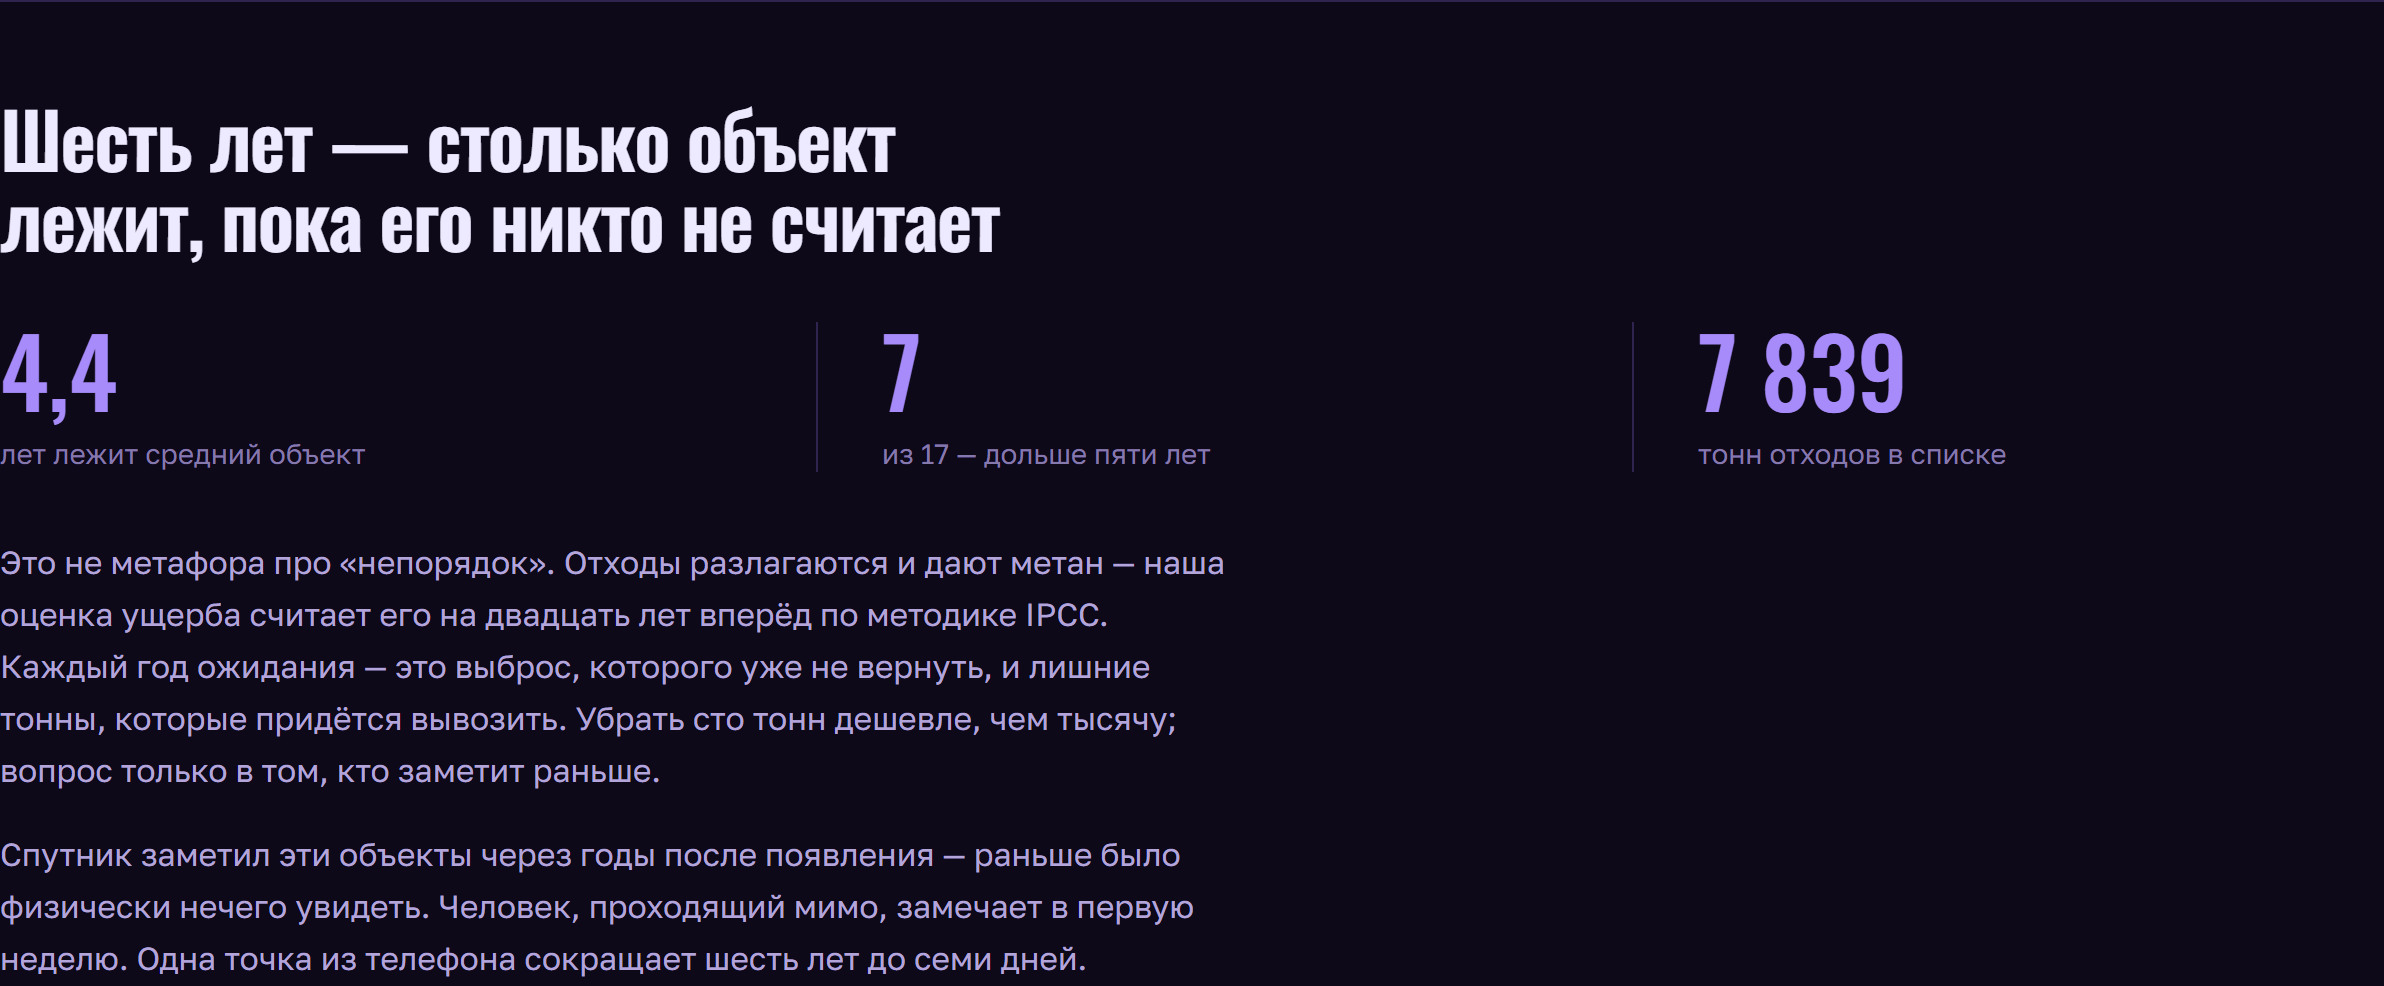
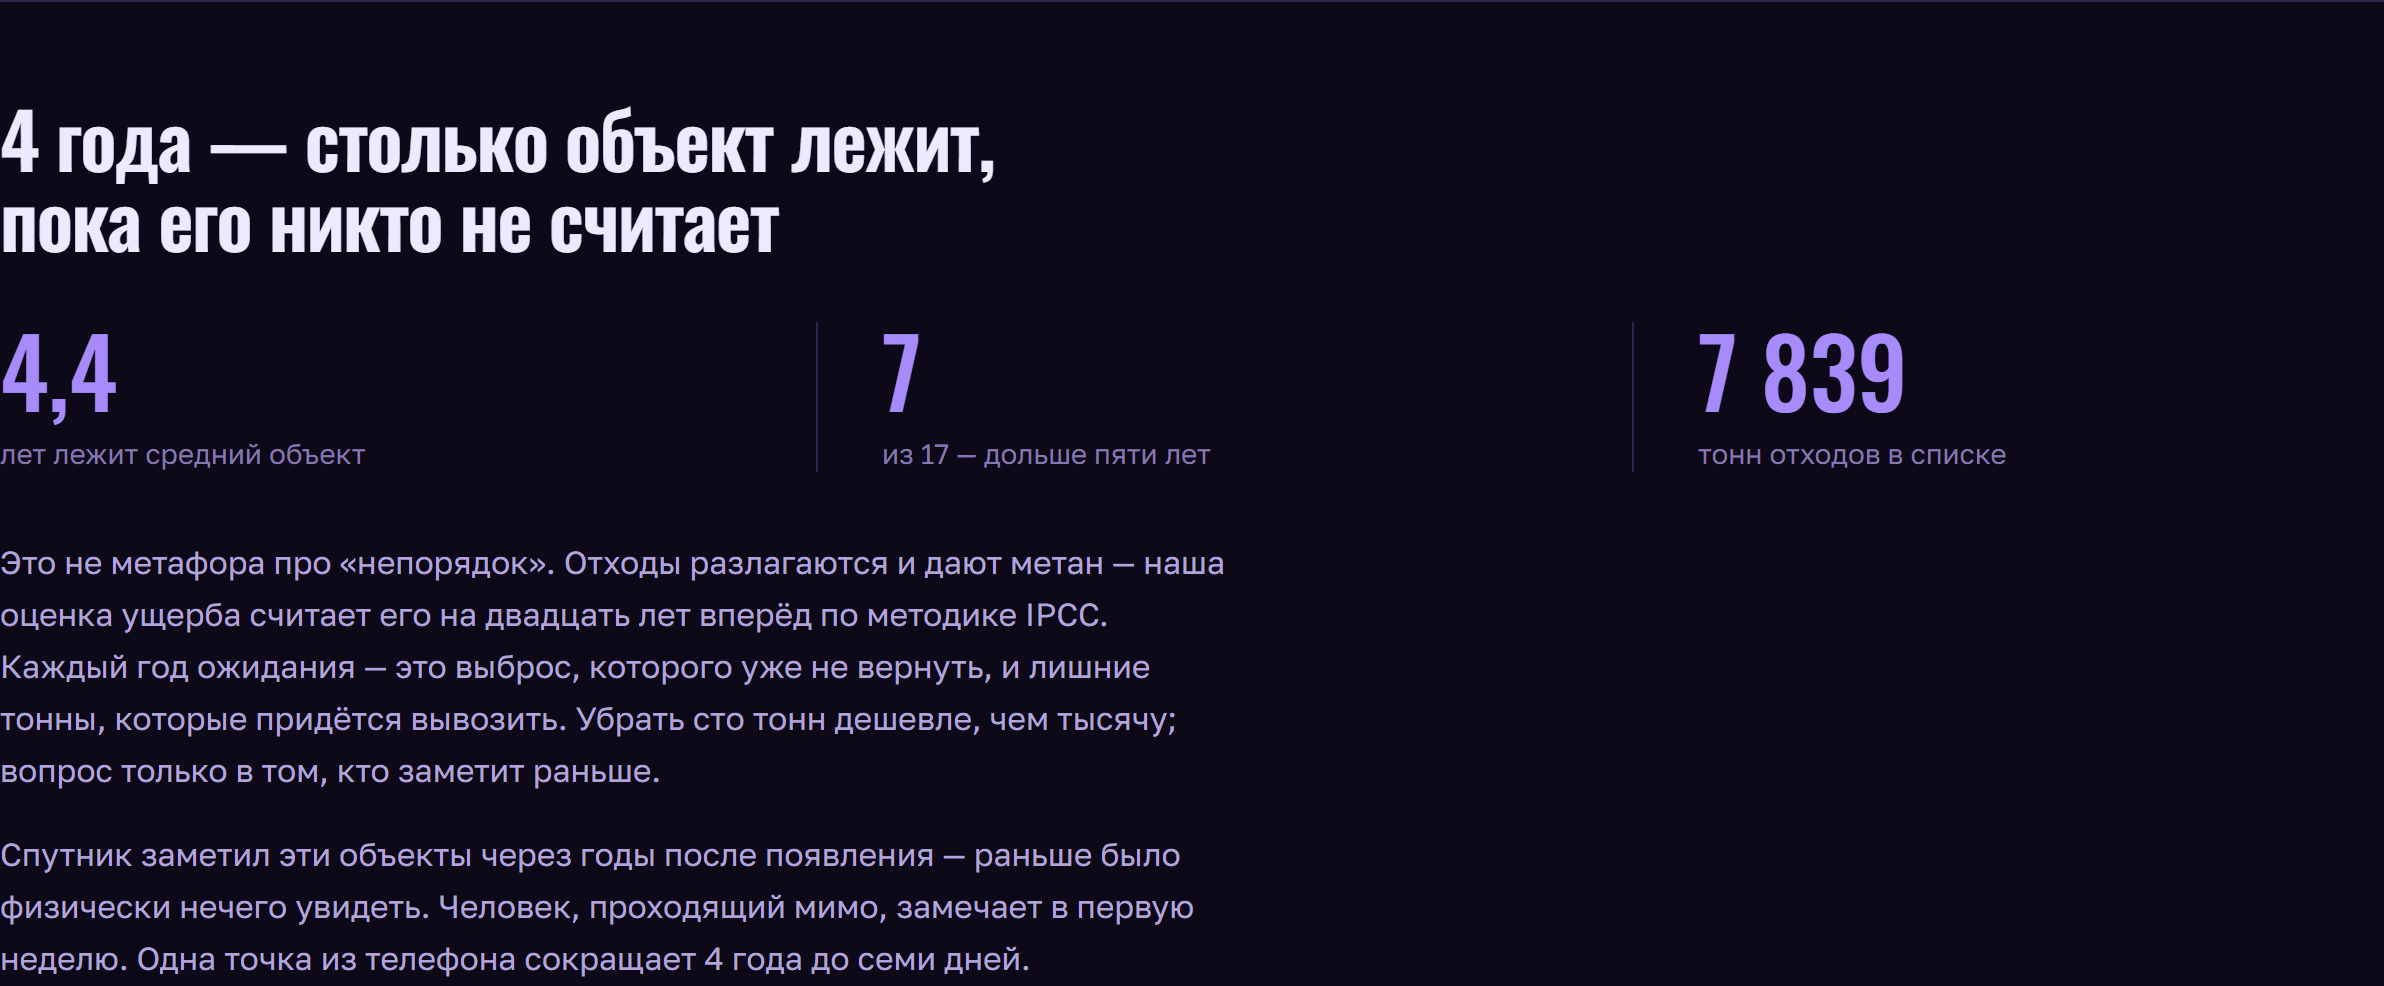
Заголовок обещал «Шесть лет», а число под ним показывало 4,4
Заголовок на странице для жителей был вписан словами, а плитка под ним
считалась из данных. После пересчёта они разошлись, и читатель видит оба
одновременно — это разрушает доверие ко всей странице быстрее, чем любая
неточность по отдельности.

Теперь заголовок берёт то же число, что и плитка, и склоняет его. Та же
правка во втором абзаце: «сокращает 4 года до семи дней».

Плюс на странице прогноза выправлена моя же формулировка про интервал:
«Проверять было на чем немного» → «Свалок, возникших после отсечки, всего
11 — и это всё, на чём модель проверялась».

659 проверок, узкие экраны чистые, снимки для деки пересняты.

Changed region(s): [[0.0, 0.0913, 0.4346, 0.1826], [0.0, 0.213, 0.4346, 0.2738], [0.2794, 0.9432, 0.4656, 1.0]]

diff --git a/web-next/src/components/HowLong.tsx b/web-next/src/components/HowLong.tsx
@@ -57,10 +57,18 @@ export function HowLong({ features }: { features: Feature[] }) {
     ['тонн отходов в списке', Math.round(mass).toLocaleString('ru-RU')],
   ];
 
+  /* Заголовок берёт то же число, что и плитка под ним.
+     Раньше в нём стояло «Шесть лет» словами, а плитка считалась из данных.
+     После пересчёта они разошлись: заголовок обещал шесть, число под ним
+     показывало 4,4. Читатель видит оба одновременно, и это разрушает
+     доверие ко всей странице быстрее, чем любая неточность по отдельности. */
+  const typical = Math.round(median(ages));
+  const said = typical === 1 ? 'Год' : typical < 5 ? `${typical} года` : `${typical} лет`;
+
   return (
     <section className="mt-14 border-t border-grid pt-12">
       <h2 className="max-w-[24ch] text-[clamp(1.6rem,3.4vw,2.4rem)] text-line">
-        Шесть лет — столько объект лежит, пока его никто не считает
+        {said} — столько объект лежит, пока его никто не считает
       </h2>
 
       <dl className="mt-8 grid gap-8 sm:grid-cols-3">
@@ -84,7 +92,7 @@ export function HowLong({ features }: { features: Feature[] }) {
       <p className="mt-4 max-w-[62ch] leading-relaxed text-muted">
         Спутник заметил эти объекты через годы после появления — раньше было
         физически нечего увидеть. Человек, проходящий мимо, замечает в первую
-        неделю. Одна точка из телефона сокращает шесть лет до семи дней.
+        неделю. Одна точка из телефона сокращает {said.toLowerCase()} до семи дней.
       </p>
     </section>
   );

diff --git a/web-next/src/Forecast.tsx b/web-next/src/Forecast.tsx
@@ -267,10 +267,11 @@ export default function Forecast() {
 
               {metrics.positives_future !== undefined && metrics.positives_future < 15 && (
                 <p className="mt-3 text-sm leading-relaxed text-muted-2">
-                  Проверять было на чем немного: свалок, возникших после отсечки,{' '}
-                  <span className="tabular text-line">{metrics.positives_future}</span>. Поэтому
-                  здесь стоит интервал по бутстрэпу и его нижняя граница, а не одно число:
-                  на такой выборке середина сместилась бы от одного объекта.
+                  Свалок, возникших после отсечки, всего{' '}
+                  <span className="tabular text-line">{metrics.positives_future}</span> — и это
+                  всё, на чём модель проверялась. Поэтому здесь стоит интервал по бутстрэпу и
+                  называется его нижняя граница, а не одно число: на такой выборке середина
+                  сместилась бы от одного объекта.
                 </p>
               )}
 
